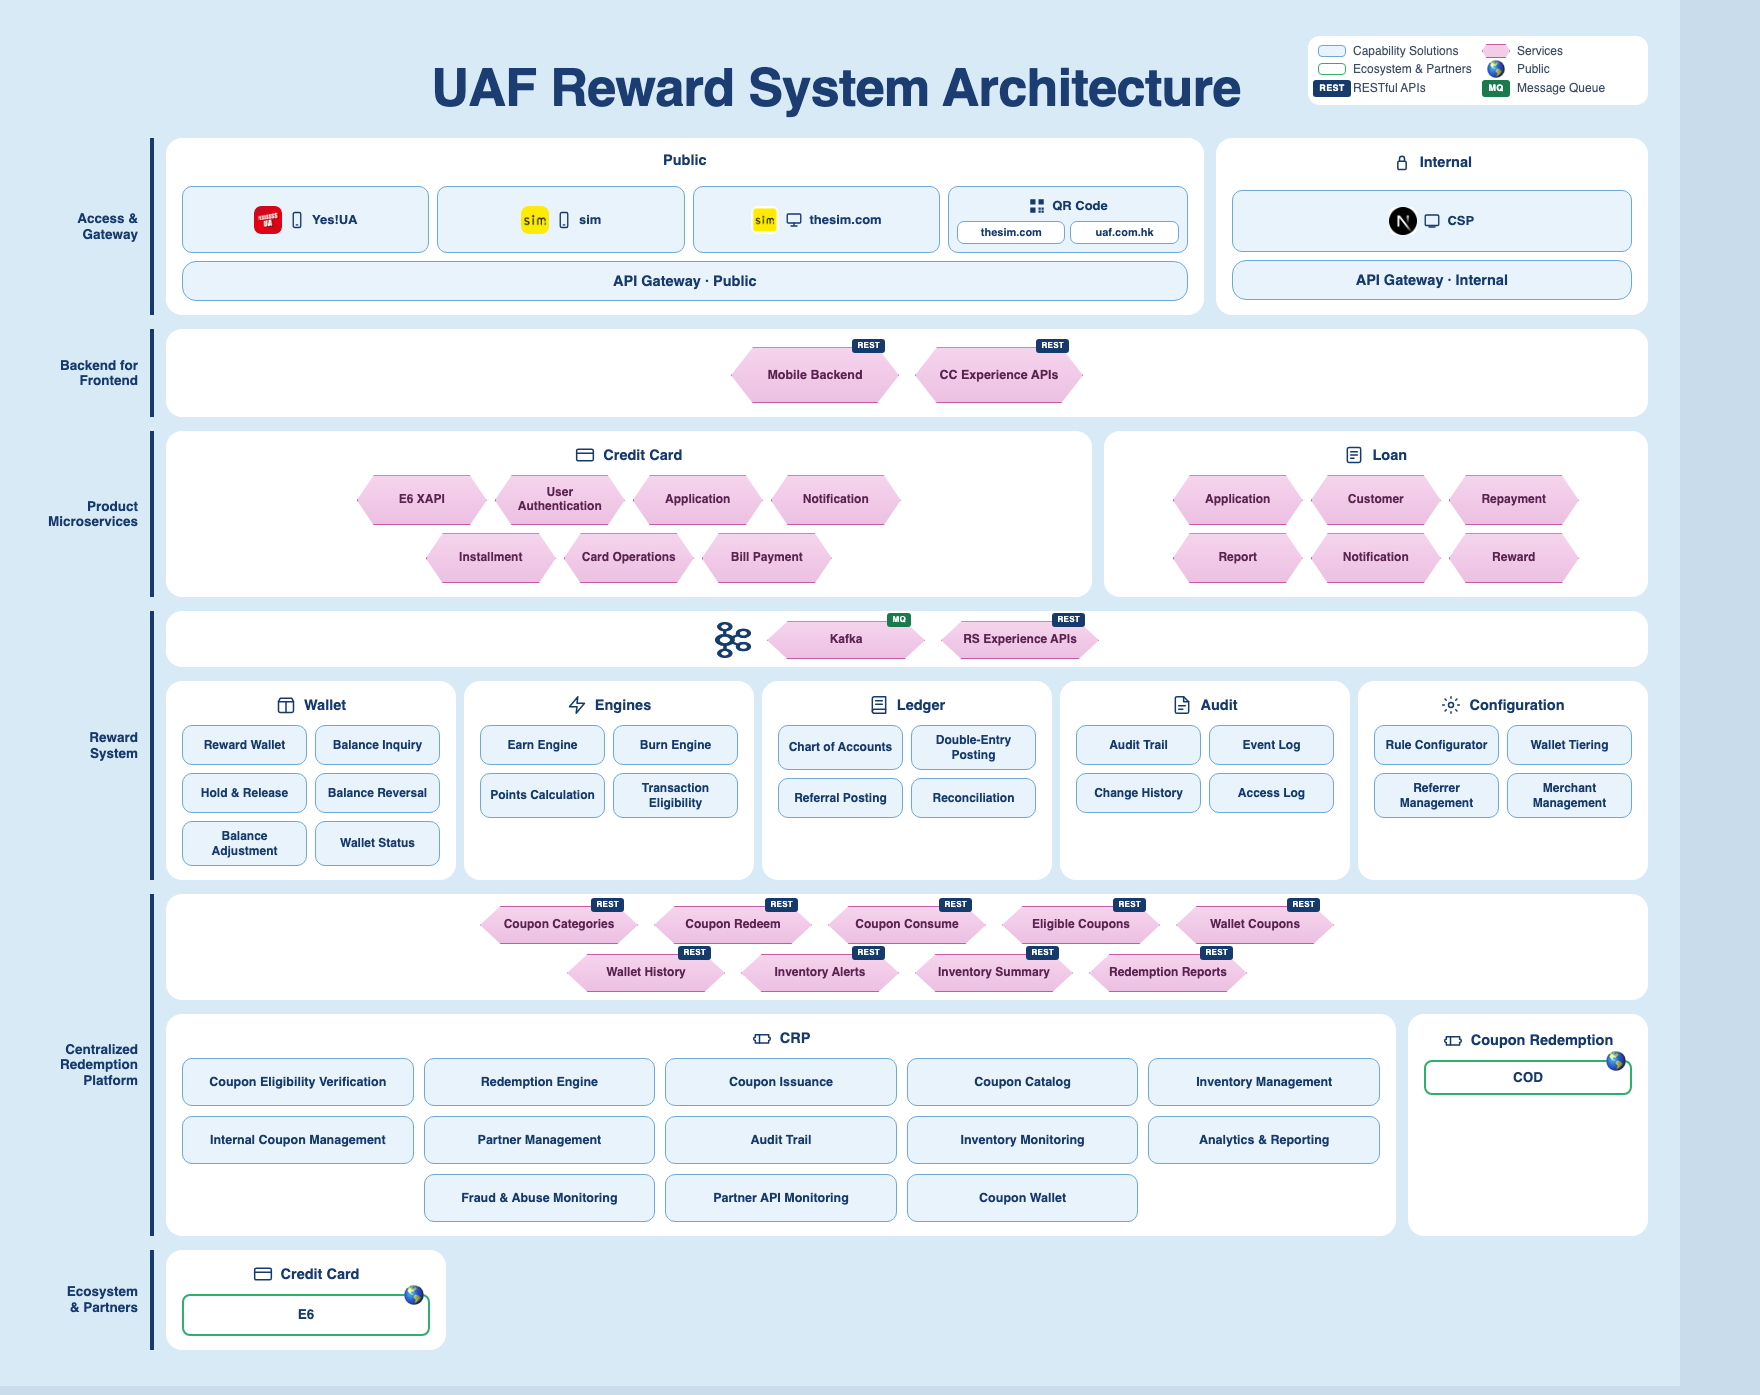
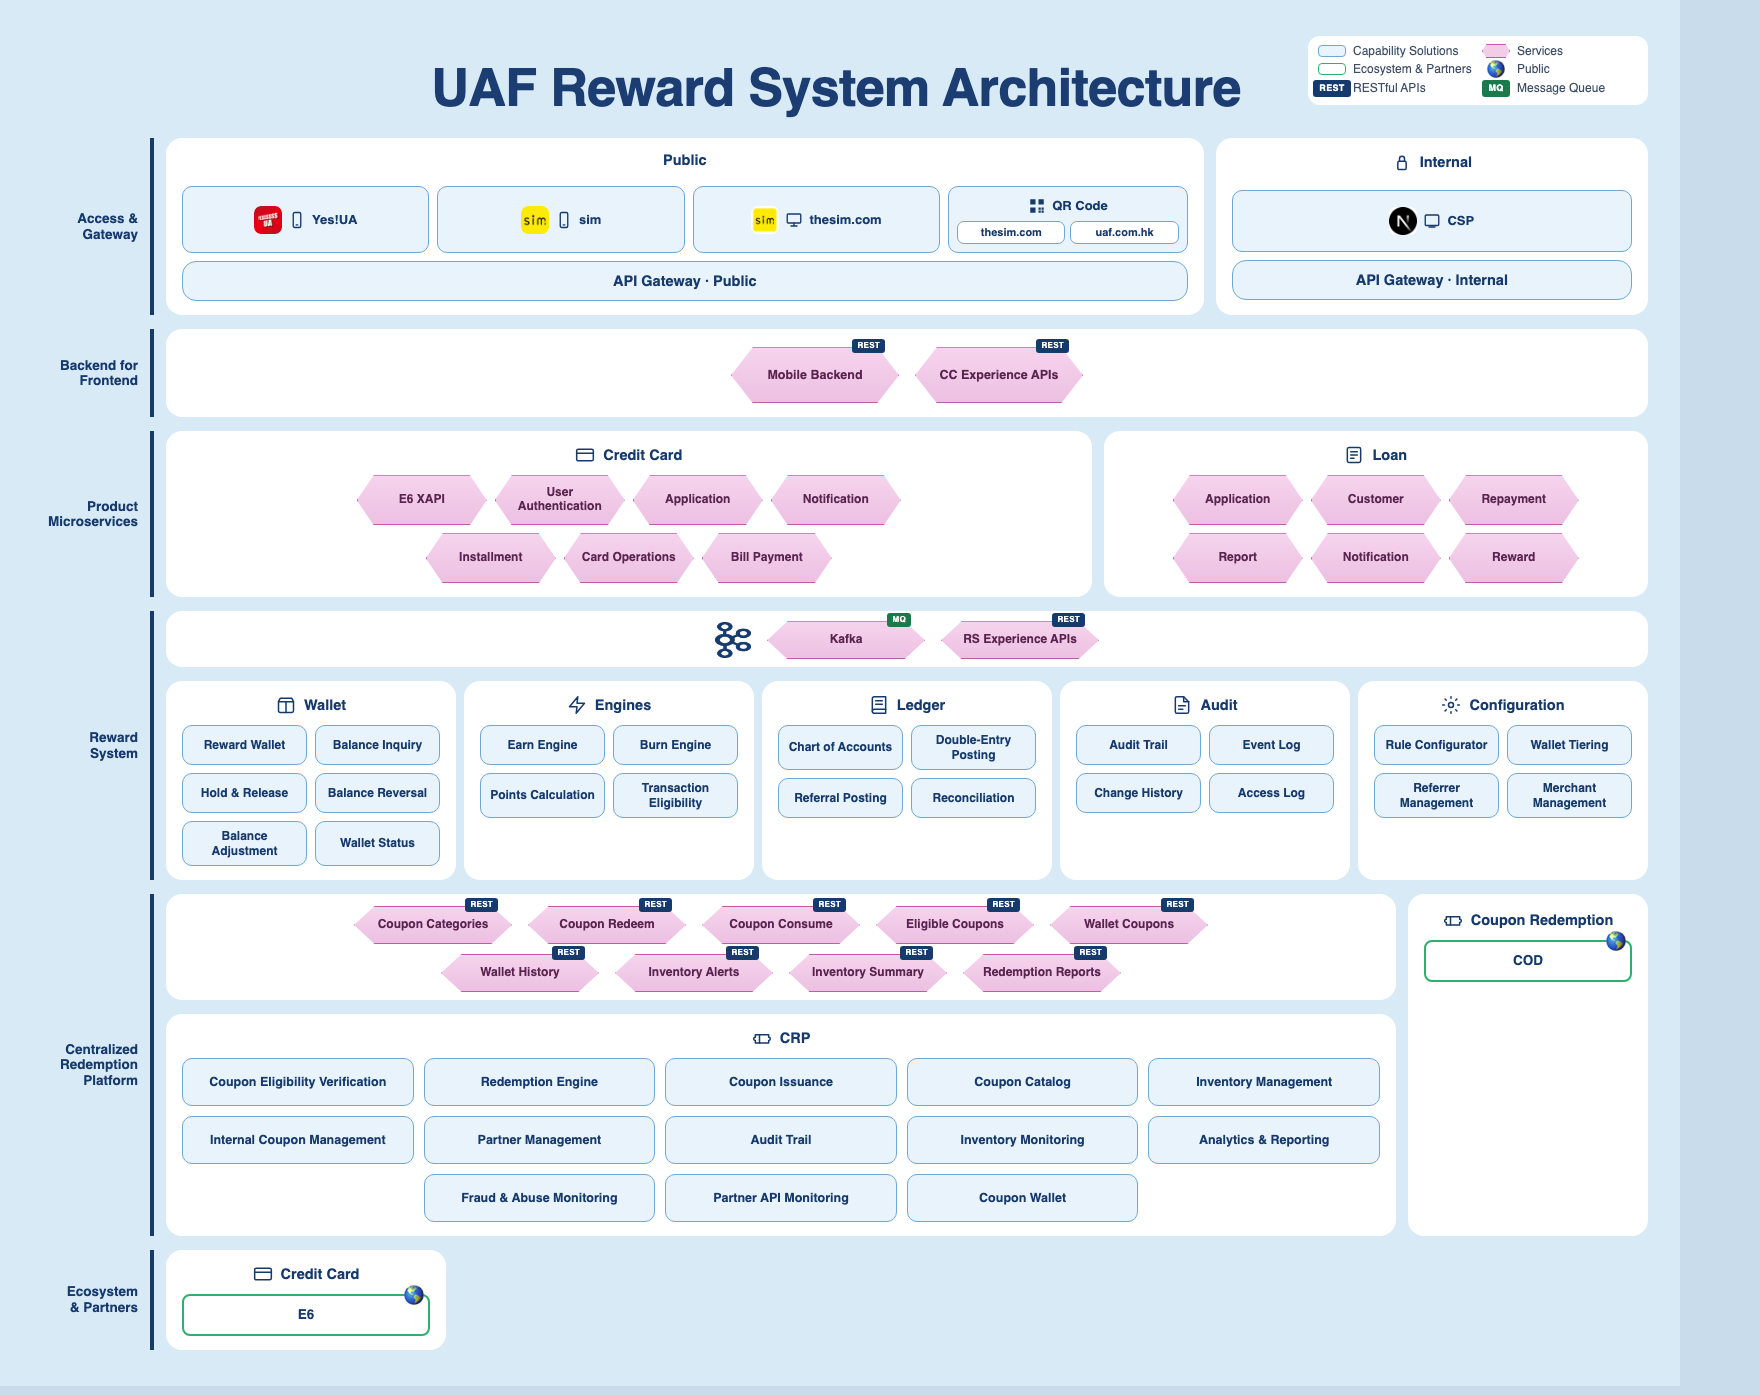
docs(decks): Coupon Redemption island spans REST + CRP height

Changed region(s): [[0.1875, 0.6473, 0.75, 0.709], [0.7812, 0.6473, 0.9375, 0.7706]]

diff --git a/docs/decks/uaf-rewards-logical-architecture.html b/docs/decks/uaf-rewards-logical-architecture.html
@@ -75,8 +75,10 @@
   .island h3 .ico,.card > h3 .ico{width:20px;height:20px}
   .prod .hexrow{gap:8px}
   .prod .hexrow .svc{width:130px;min-height:50px;font-size:12px}
-  .crp-row{display:grid;grid-template-columns:1fr 240px;gap:12px;align-items:stretch}
-  .crp-row .island{padding-top:16px}
+  .crp-span{display:grid;grid-template-columns:1fr 240px;gap:12px;align-items:stretch}
+  .crp-left{display:flex;flex-direction:column;gap:14px}
+  .crp-span .island{padding-top:16px;display:flex;flex-direction:column}
+  .crp-span .pay{width:100%;min-height:42px}
   .eco{display:flex;gap:12px;align-items:stretch}
   .eco .island{width:280px}
   .eco .pay{min-height:42px;width:100%}
@@ -102,8 +104,7 @@
   .c5{grid-column:2;grid-row:4}
   .c6{grid-column:2;grid-row:5}
   .l8{grid-column:1;grid-row:6 / span 2}
-  .c7{grid-column:2;grid-row:6}
-  .c8{grid-column:2;grid-row:7}
+  .c7{grid-column:2;grid-row:6 / span 2}
   .l9{grid-column:1;grid-row:8}
   .c9{grid-column:2;grid-row:8}
 </style>
@@ -286,51 +287,52 @@
     </div>
 
     <div class="lab l8">Centralized<br>Redemption<br>Platform</div>
-    <div class="card c7 thin-int">
-      <div class="hexrow">
-        <div class="svcw"><div class="svc">Coupon Categories</div><span class="badge-rest">REST</span></div>
-        <div class="svcw"><div class="svc">Coupon Redeem</div><span class="badge-rest">REST</span></div>
-        <div class="svcw"><div class="svc">Coupon Consume</div><span class="badge-rest">REST</span></div>
-        <div class="svcw"><div class="svc">Eligible Coupons</div><span class="badge-rest">REST</span></div>
-        <div class="svcw"><div class="svc">Wallet Coupons</div><span class="badge-rest">REST</span></div>
+    <div class="crp-span c7">
+      <div class="crp-left">
+        <div class="card thin-int">
+          <div class="hexrow">
+            <div class="svcw"><div class="svc">Coupon Categories</div><span class="badge-rest">REST</span></div>
+            <div class="svcw"><div class="svc">Coupon Redeem</div><span class="badge-rest">REST</span></div>
+            <div class="svcw"><div class="svc">Coupon Consume</div><span class="badge-rest">REST</span></div>
+            <div class="svcw"><div class="svc">Eligible Coupons</div><span class="badge-rest">REST</span></div>
+            <div class="svcw"><div class="svc">Wallet Coupons</div><span class="badge-rest">REST</span></div>
+          </div>
+          <div class="hexrow" style="margin-top:10px">
+            <div class="svcw"><div class="svc">Wallet History</div><span class="badge-rest">REST</span></div>
+            <div class="svcw"><div class="svc">Inventory Alerts</div><span class="badge-rest">REST</span></div>
+            <div class="svcw"><div class="svc">Inventory Summary</div><span class="badge-rest">REST</span></div>
+            <div class="svcw"><div class="svc">Redemption Reports</div><span class="badge-rest">REST</span></div>
+          </div>
+        </div>
+        <div class="card">
+          <h3>
+            <svg class="ico" viewBox="0 0 24 24"><path d="M4 8h16v3a2 2 0 0 1 0 4v3H4v-3a2 2 0 0 1 0-4V8z"/><path d="M9 8v10"/></svg>
+            CRP
+          </h3>
+          <div class="caps crp-caps">
+            <div class="cap">Coupon Eligibility Verification</div>
+            <div class="cap">Redemption Engine</div>
+            <div class="cap">Coupon Issuance</div>
+            <div class="cap">Coupon Catalog</div>
+            <div class="cap">Inventory Management</div>
+            <div class="cap">Internal Coupon Management</div>
+            <div class="cap">Partner Management</div>
+            <div class="cap">Audit Trail</div>
+            <div class="cap">Inventory Monitoring</div>
+            <div class="cap">Analytics &amp; Reporting</div>
+            <div class="cap" style="grid-column:2">Fraud &amp; Abuse Monitoring</div>
+            <div class="cap">Partner API Monitoring</div>
+            <div class="cap">Coupon Wallet</div>
+          </div>
+        </div>
       </div>
-      <div class="hexrow" style="margin-top:10px">
-        <div class="svcw"><div class="svc">Wallet History</div><span class="badge-rest">REST</span></div>
-        <div class="svcw"><div class="svc">Inventory Alerts</div><span class="badge-rest">REST</span></div>
-        <div class="svcw"><div class="svc">Inventory Summary</div><span class="badge-rest">REST</span></div>
-        <div class="svcw"><div class="svc">Redemption Reports</div><span class="badge-rest">REST</span></div>
+      <div class="island">
+        <h3>
+          <svg class="ico" viewBox="0 0 24 24"><path d="M4 8h16v3a2 2 0 0 1 0 4v3H4v-3a2 2 0 0 1 0-4V8z"/><path d="M9 8v10"/></svg>
+          Coupon Redemption
+        </h3>
+        <div class="pay">COD<span class="badge-pub">🌎</span></div>
       </div>
-    </div>
-
-    <div class="crp-row c8">
-    <div class="card">
-      <h3>
-        <svg class="ico" viewBox="0 0 24 24"><path d="M4 8h16v3a2 2 0 0 1 0 4v3H4v-3a2 2 0 0 1 0-4V8z"/><path d="M9 8v10"/></svg>
-        CRP
-      </h3>
-      <div class="caps crp-caps">
-        <div class="cap">Coupon Eligibility Verification</div>
-        <div class="cap">Redemption Engine</div>
-        <div class="cap">Coupon Issuance</div>
-        <div class="cap">Coupon Catalog</div>
-        <div class="cap">Inventory Management</div>
-        <div class="cap">Internal Coupon Management</div>
-        <div class="cap">Partner Management</div>
-        <div class="cap">Audit Trail</div>
-        <div class="cap">Inventory Monitoring</div>
-        <div class="cap">Analytics &amp; Reporting</div>
-        <div class="cap" style="grid-column:2">Fraud &amp; Abuse Monitoring</div>
-        <div class="cap">Partner API Monitoring</div>
-        <div class="cap">Coupon Wallet</div>
-      </div>
-    </div>
-    <div class="island">
-      <h3>
-        <svg class="ico" viewBox="0 0 24 24"><path d="M4 8h16v3a2 2 0 0 1 0 4v3H4v-3a2 2 0 0 1 0-4V8z"/><path d="M9 8v10"/></svg>
-        Coupon Redemption
-      </h3>
-      <div class="pay">COD<span class="badge-pub">🌎</span></div>
-    </div>
     </div>
 
     <div class="lab l9">Ecosystem<br>&amp; Partners</div>
